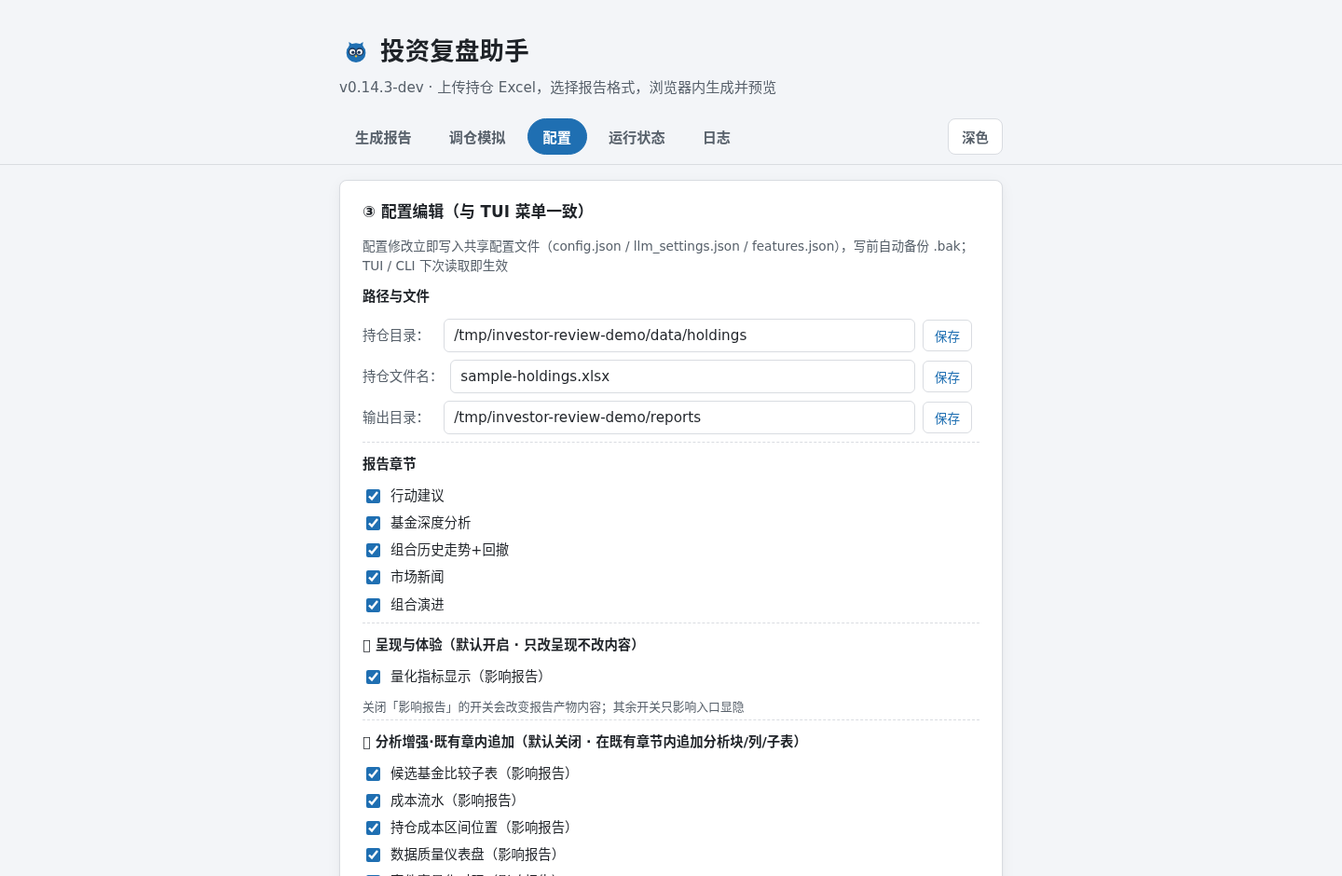
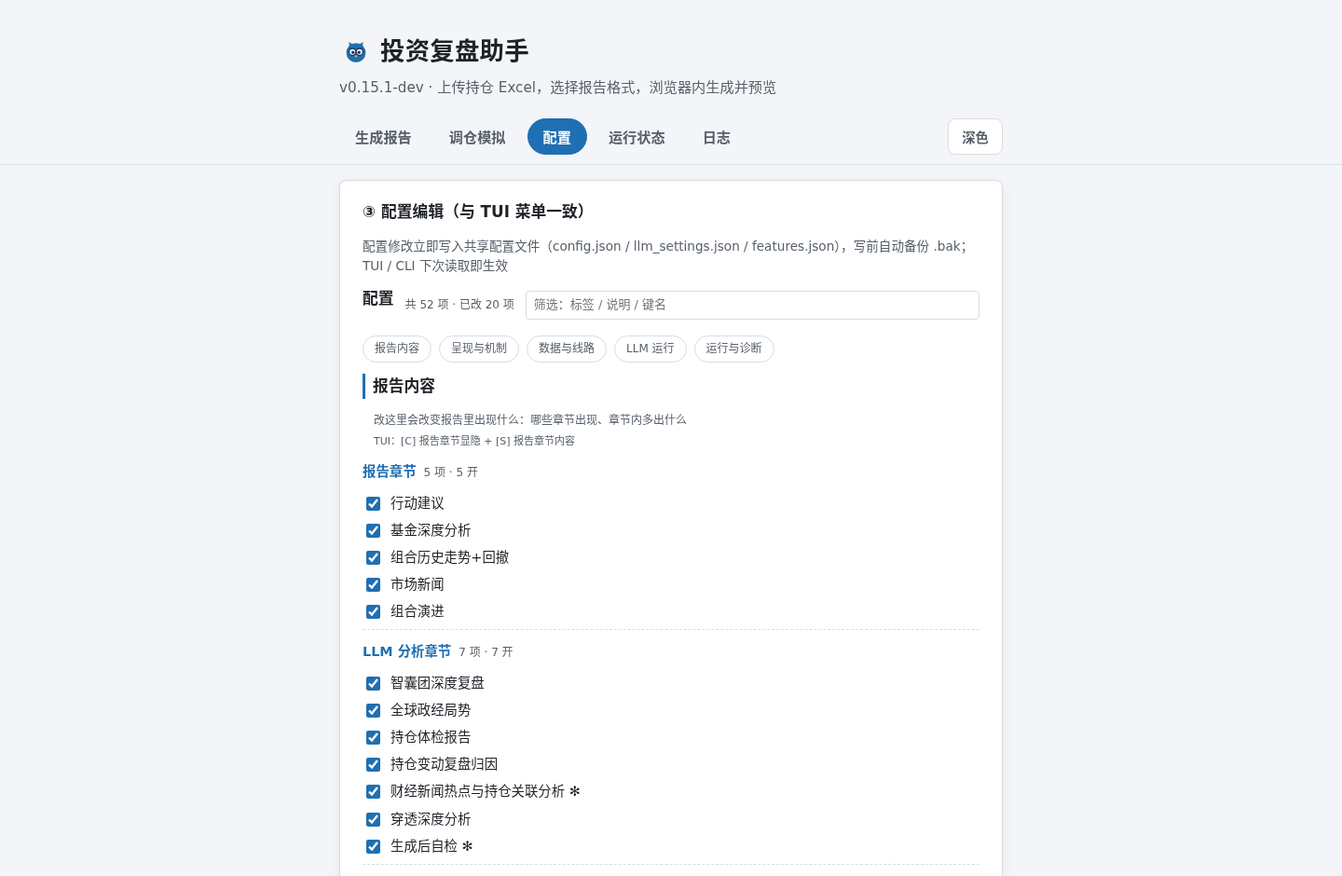
docs(readme+manuals): 演示截图全面重拍（自造持仓/隔离配置）+ 修 rf-843 配置面板块标题 + 图注对齐

Changed region(s): [[0.25, 0.3085, 0.5938, 0.9872], [0.6875, 0.3702, 0.7188, 0.4936]]

diff --git a/src/static/web/main.js b/src/static/web/main.js
@@ -1195,7 +1195,7 @@
       return renderBoolBlock(surface, 'standalone_related', surface.standalone_related);
     },
     anonymization: function (surface) {
-      return renderAnonGroup(surface.anonymization);
+      return renderAnonGroup(surface);
     },
     indices: function (surface) {
       return renderIndicesGroup(surface);
@@ -1204,7 +1204,7 @@
       return renderProvidersGroup(surface);
     },
     tuning: function (surface) {
-      return renderTuningGroup(surface.llm_tuning);
+      return renderTuningGroup(surface);
     },
     logging: function (surface) {
       return renderLoggingBlock(surface);
@@ -1489,14 +1489,15 @@
    * LLM 调优参数（并发/预算/重试）：清单、范围、说明全部由服务端按共享白名单下发。
    * 保存走同一 POST /api/config/edit（校验在 config.edit_ops，三渠道同一强度）。
    */
-  function renderTuningGroup(items) {
+  function renderTuningGroup(surface) {
+    var items = surface.llm_tuning || [];
     var group = document.createElement('div');
     group.className = 'config-group';
     group.setAttribute('role', 'group');
     group.setAttribute('aria-label', 'LLM 调优参数');
     var heading = document.createElement('h3');
     heading.className = 'config-group-title';
-    heading.textContent = 'LLM 调优参数';
+    heading.textContent = (surface.block_titles || {}).tuning || 'LLM 运行参数';
     group.appendChild(heading);
 
     items.forEach(function (item) {
@@ -1548,7 +1549,7 @@
 
   function renderPathsGroup(surface) {
     var paths = surface.paths || {};
-    var group = makeBlockGroup('paths', surface.labels.paths || '目录与文件');
+    var group = makeBlockGroup('paths', (surface.block_titles || {}).paths || '目录与文件');
     Object.keys(paths).forEach(function (key) {
       var row = document.createElement('div');
       row.className = 'config-path-row';
@@ -1617,7 +1618,8 @@
 
   function renderBoolBlock(surface, blockKey, items, opts) {
     opts = opts || {};
-    var group = makeBlockGroup(blockKey, opts.title || surface.labels[blockKey] || blockKey);
+    var titles = surface.block_titles || {};
+    var group = makeBlockGroup(blockKey, opts.title || titles[blockKey] || blockKey);
     var labels = surface.labels;
     var descriptions = surface.descriptions || {};
     var defaults = surface.defaults || {};
@@ -1668,14 +1670,15 @@
     return group;
   }
 
-  function renderAnonGroup(anon) {
+  function renderAnonGroup(surface) {
+    var anon = surface.anonymization;
     var group = document.createElement('div');
     group.className = 'config-group';
     group.setAttribute('role', 'radiogroup');
     group.setAttribute('aria-label', '持仓匿名化');
     var heading = document.createElement('h3');
     heading.className = 'config-group-title';
-    heading.textContent = '持仓匿名化';
+    heading.textContent = (surface.block_titles || {}).anonymization || '持仓匿名化';
     heading.id = 'config-group-anonymization';
     group.id = 'config-block-anonymization';
     group.setAttribute('aria-labelledby', heading.id);
@@ -1709,7 +1712,7 @@
     group.setAttribute('aria-label', '对比指数池');
     var heading = document.createElement('h3');
     heading.className = 'config-group-title';
-    heading.textContent = '对比指数池';
+    heading.textContent = (surface.block_titles || {}).indices || '对比基准指数';
     group.appendChild(heading);
 
     var listWrap = document.createElement('div');
@@ -1764,7 +1767,10 @@
     group.setAttribute('aria-label', 'LLM 多链线路优先级');
     var heading = document.createElement('h3');
     heading.className = 'config-group-title';
-    heading.textContent = 'LLM 多链线路优先级';
+    heading.textContent = (surface.block_titles || {}).providers || '多链线路优先级';
+    heading.id = 'config-group-providers';
+    group.id = 'config-block-providers';
+    group.setAttribute('aria-labelledby', heading.id);
     group.appendChild(heading);
 
     var priorityAware = prov.strategy === 'priority' || prov.strategy === 'fallback_only';
@@ -2083,7 +2089,7 @@
     if (!data.items || !data.items.length) {
       return null;
     }
-    var group = makeBlockGroup('logging', surface.labels.logging || '日志设置');
+    var group = makeBlockGroup('logging', (surface.block_titles || {}).logging || '日志设置');
     var restart = data.restart_keys || [];
     data.items.forEach(function (item) {
       var row = document.createElement('div');
@@ -2146,7 +2152,7 @@
     if (!ref || !ref.pricing_path) {
       return null;
     }
-    var group = makeBlockGroup('reference', surface.labels.reference || '参考信息');
+    var group = makeBlockGroup('reference', (surface.block_titles || {}).reference || '参考信息');
     var row = document.createElement('div');
     row.className = 'ref-row';
     var label = document.createElement('span');

diff --git a/src/test/unit/web/test_config_surface_contract.py b/src/test/unit/web/test_config_surface_contract.py
@@ -77,6 +77,27 @@ class TestBlockRendererContract:
         assert set(surface["standalone_related"]) == {e.key for e in chapters_in_block(BLOCK_ARTIFACT)}
 
 
+class TestBlockTitles:
+    def test_every_block_has_chinese_title(self, surface):
+        """每个块 id 都有随面下发的中文标题（`features.*` 用组自身标题）。
+
+        回归：块标题曾回退到块 id 本身，面板上直接显示 `sections` / `llm` 这类内部标识。
+        """
+        titles = surface["block_titles"]
+        for domain in surface["domains"]:
+            for block in domain["blocks"]:
+                if block.startswith("features."):
+                    assert block.split(".", 1)[1] in {group["key"] for group in surface["features"]["groups"]}, block
+                    continue
+                assert block in titles, f"块 {block} 缺中文标题"
+                assert any("\u4e00" <= ch <= "\u9fff" for ch in titles[block]), (block, titles[block])
+
+    def test_titles_are_not_block_ids(self, surface):
+        """标题不得等于块 id（前端显示的应是中文名，而不是内部标识）。"""
+        for block, title in surface["block_titles"].items():
+            assert title != block, block
+
+
 class TestNoChineseTablesInFrontend:
     def test_no_label_tables(self, main_js):
         """前端不持有中文标签字典（标签/说明/默认值一律服务端下发）。"""

diff --git a/src/python/web/config_edit.py b/src/python/web/config_edit.py
@@ -88,6 +88,21 @@ _DOMAIN_BLOCKS: tuple[tuple[str, tuple[str, ...]], ...] = (
     ("ops_diagnostics", ("logging", "reference")),
 )
 
+#: 块 id → 中文块标题（前端只用标题渲染，不持有任何中文表；`features.<组键>` 用组自身标题）
+_BLOCK_TITLES: dict[str, str] = {
+    "paths": "目录与文件",
+    "sections": "报告章节",
+    "llm": "LLM 分析章节",
+    "standalone_chapters": "默认关闭的整章",
+    "standalone_related": "关联产物",
+    "anonymization": "持仓匿名化",
+    "indices": "对比基准指数",
+    "providers": "多链线路优先级",
+    "tuning": "LLM 运行参数",
+    "logging": "日志设置",
+    "reference": "参考信息",
+}
+
 #: 六组「章内内容」开关所在的面板（`[S]`）；独立整章/关联产物另立块
 _CONTENT_PANEL = "[S]"
 
@@ -338,6 +353,7 @@ def get_config_edit_surface() -> dict:
     return {
         "domains": _block_domains(),
         **_panel_metadata(),
+        "block_titles": dict(_BLOCK_TITLES),
         "paths": paths,
         "sections": sections,
         "standalone_chapters": standalone_chapters,

diff --git a/docs/managements/test-coverage.md b/docs/managements/test-coverage.md
@@ -12,16 +12,16 @@
 <!-- mode-count-table:start -->
 | `--mode` 值 | 覆盖项数 | 典型耗时 |
 |:------------|:--------:|:--------:|
-| `unit` | **11340** | ~45s |
-| `standard` | **10106** | ~28s |
+| `unit` | **11342** | ~45s |
+| `standard` | **10108** | ~28s |
 | `scenario` | **291** | ~6s |
 | `regression` | **291** | ~11s |
-| `dev-verify` | **7995** | ~41s |
-| `verify` | **11340** | ~29s |
+| `dev-verify` | **7997** | ~41s |
+| `verify` | **11342** | ~29s |
 | `integration` | **342** | ~13s |
 | `edge` | **1166** | ~12s |
 | `data` | **70** | ~5s |
-| `all` | **11682** | ~28s |
+| `all` | **11684** | ~28s |
 | `smoke` | **26** | ~4s |
 | `report` | **2640** | ~12s |
 | `all_no_unit` | **342** | ~11s |
@@ -117,7 +117,7 @@
 | **分析计算** | `analysis/`(liquidity, rebalance, fx_exposure, bond_yield, alignment_correction, drawdown_warning, drawdown_events, factor_exposure, industry_beta, correlation, crisis_annotation, tail_risk, portfolio_evolution, snapshot_diff, holding_change_events, holding_change_metrics, action_advisor, trade_discipline, rebalance_advisor, return_attribution, cost_flow, cost_position, whatif, whatif_backtest, valuation_percentile, market_temperature, metrics, financial_indicator_extract) | `unit/analysis/test_{liquidity,rebalance,bond_yield,fx_exposure,alignment_correction,drawdown_warning,drawdown_events,factor_exposure,industry_beta}*.py` + `test_correlation.py` + `test_correlation_edge.py` + `test_crisis_annotation.py` + `test_tail_risk.py` + `test_tail_risk_edge.py` + `test_portfolio_evolution.py` + `test_snapshot_diff.py` + `test_snapshot_diff_edge.py` + `test_holding_change_events.py`/`test_holding_change_events_edge.py`/`test_holding_change_metrics.py`（持仓变动复盘：事件抽取/边缘/指标与重排识别） + `test_action_advisor.py` + `test_trade_discipline.py` + `test_rebalance_advisor.py` + `test_return_attribution.py` + `test_cost_flow.py`（成本流水：XIRR/成本分档/分红累计） + `test_cost_position.py`/`test_cost_position_edge.py`（持仓成本区间位置：百分位/clamp/中性值/窗口切片 + 退化序列/非有限值边缘） + `test_valuation_percentile.py`/`test_valuation_percentile_edge.py`（价格分位代理：收盘价提取/解析解/三档刻度）+ `test_market_temperature.py`/`test_market_temperature_edge.py`（三因子合成温度计）+ `test_metrics.py`/`test_metrics_edge.py`（量化指标：夏普/卡玛/集中度/胜率/换手/风险贡献/波动率/组合 Beta）+ `test_whatif.py` + `test_whatif_backtest.py` + `test_whatif_backtest_edge.py` + `test_trade_cost_model.py`/`test_trade_cost_model_edge.py`（交易成本模型：FIFO 档位手算/金额分档/批次重放/聚合契约与临界边缘）+ `test_benchmark_index_resolver.py`（基准指数三阶映射）+ `test_financial_indicator_extract.py`/`test_financial_indicator_extract_edge.py`（财务指标全文解析：真实年报夹具逐字段复现/行文变体/单位换算/精度切分/扣非排除/取值窗口边界/异常幅度） | 1,237 |
 | **TUI 交互** | `tui/tui*.py`, `tui/status_line.py`, `tui/handlers*.py`, `tui/tui_keys.py`, `tui/text_layout.py` | `unit/ui/test_{tui_keys,tui_handlers,tui_menu}.py`（含主循环退出通道：`0`/`X` 双退出、未映射键不误退、页脚提示与折行）+ `test_text_layout.py`（显示宽度口径 + 盒线面板等宽不变式 + 折行/截断原语）+ `unit/handlers/test_switch_panel_layout.py`（`[S]` 三档响应式排版：40~200 列不越界不变式、状态着色、窄屏 `k` 展开键名、操作后不整屏重绘）+ `test_handlers_log.py`（日志可视化 + 系统自检）+ `test_tui_edge.py` + `unit/startup/test_startup_wizard.py`（unit_ui 标记） | 374 |
 | **CLI 命令行** | `cli/cli.py`（门面）, `cli/_parser.py`, `cli/_handlers.py`, `cli/__main__.py`, `report/cli_progress.py` | `unit/cli/test_cli*.py`（含 doctor 子命令解析/处理/分派、模块入口退出码传递、报告完成后 LLM 成本与缓存命中率摘要调用、**调用级源指定 `--prefer-source` / `--exclude-source` 参数解析与覆盖作用域接入**/生效日 `--effective-date` argparse 类型钩子（共享层归一化前置校验）） | 170 |
-| **Web 服务** | `web/`(server, app, handlers, config_edit, upload, progress, runs) | `unit/web/test_{upload,upload_edge,progress,runs,handlers,server}.py` + `test_config_edit.py`/`test_config_edit_edge.py`（启动防护 output_dir 写锁/端口占用、上传安全、进度事件缓冲、RunManager 运行管理、Flask 路由全链路、配置编辑：白名单完备/写分派/校验守卫/写前备份/极端输入）+ `test_smoke_web.py`（11 项全链路断言）+ `test_handlers.py` 日志/健康历史/自检端点（/api/logs + /api/health/history + /api/doctor）+ `test_health_credential.py`（健康检查凭据跳过态与就绪摘要）+ `test_handlers.py` 短缓存并发安全（线程锁读写段/TTL/?fresh=1/8 线程并发写）+ `test_whatif_api.py`/`test_whatif_api_edge.py`（调仓 What-if 接口：成功链路/参数校验/错误信封/同源 403/互斥 429/生效日容错）+ `test_cache_api.py`（缓存管理接口：统计只读 dry_run/前缀降序保序/清理计数透传/同源 403）+ `test_web_static_serving.py` 五区页签结构契约（页签↔面板配对/What-if 控件/缓存控件/main.js 接线） | 389 |
+| **Web 服务** | `web/`(server, app, handlers, config_edit, upload, progress, runs) | `unit/web/test_{upload,upload_edge,progress,runs,handlers,server}.py` + `test_config_edit.py`/`test_config_edit_edge.py`（启动防护 output_dir 写锁/端口占用、上传安全、进度事件缓冲、RunManager 运行管理、Flask 路由全链路、配置编辑：白名单完备/写分派/校验守卫/写前备份/极端输入）+ `test_smoke_web.py`（11 项全链路断言）+ `test_handlers.py` 日志/健康历史/自检端点（/api/logs + /api/health/history + /api/doctor）+ `test_health_credential.py`（健康检查凭据跳过态与就绪摘要）+ `test_handlers.py` 短缓存并发安全（线程锁读写段/TTL/?fresh=1/8 线程并发写）+ `test_whatif_api.py`/`test_whatif_api_edge.py`（调仓 What-if 接口：成功链路/参数校验/错误信封/同源 403/互斥 429/生效日容错）+ `test_cache_api.py`（缓存管理接口：统计只读 dry_run/前缀降序保序/清理计数透传/同源 403）+ `test_web_static_serving.py` 五区页签结构契约（页签↔面板配对/What-if 控件/缓存控件/main.js 接线） | 391 |
 | **报告问答** | `qa/`(context, session) | `unit/qa/`：test_report_qa_context（分章提取/表头名映射持仓/摘要与上限截断/生成条件声明）+ test_report_qa_context_edge（路径净化三层防御/锚点缺失/整体上限钉死）+ test_report_qa_session（编排契约/历史折叠/用量独立记账/事实核对降级与警示/会话表并发隔离）+ test_report_qa_session_edge（轮数硬上限/输入软上限/上下文失败不耗轮）+ test_report_qa_ask（开关门 403/参数与路径净化 400/错误码→状态码映射/信封契约）+ test_report_qa_partial（报告区块 partial：Data States/信封消费/token 样式纪律/主模板 guard/开关隔离渲染，文件在 unit/report、按 unit_qa 计入本域） | 88 |
 | **端到端业务场景** | 多模块组合（菜单 E/B/L → 读取 → 计算 → 报告 → LLM） | `scenario/`(basic/datetime/llm/perf/resilience/security 六子组，含 `scenario_extreme` 单列) + `integration/test_cli_integration.py` | 291 |
 
@@ -149,7 +149,7 @@
 
 | 标记 | 覆盖模块 | 覆盖项数 |
 |:-------|:---------|:--------:|
-| `unit`（父标记） | 全部 unit 子标记实测（collect 快照） | 11,340 |
+| `unit`（父标记） | 全部 unit 子标记实测（collect 快照） | 11,342 |
 | ├─ `unit_providers` | 数据源 Provider（腾讯/东方财富/天天基金/巨潮资讯等，含 push2 估值字段 PE/PB 提取 + 行业数据 REST 接口、push2his 指数 K 线映射与解析、非有限数值归一防线 safe_num 拦截、财报备源公告列表/文种归类/报告期推导/PDF 解析接缝、传输级失败连接级重试与重试耗尽上抛契约、挂起型不重试判据、provider 失败原因载体的消费即清与线程隔离；cassette 回放的季度窗口锚定录制时点故不随日期时移变红；F10 费用页费率表解析与载荷准入） | 555 |
 | ├─ `unit_fetcher` | 数据获取调度（价格/指数/基金/行业/API 异常/熔断预检/冷却恢复/链路失败原因采集 FailureDiagnostics/数据源适配契约三段式与行情域三源等价性/估值字段网关（Provider Chain 路由 + push2 会话复用与按代码去重）/财务指标链路（主源→解析支路降级）+ 持仓基本面章（财务指标/财报摘要）装配与合并页签/管线契约台账/财报域备源（适配器登记/命名空间隔离/主源可用时备源零调用、传输级失败在编排层的降级护栏（索引转备源/章节清单回退偏好名）/同类排名缓存语义版本准入（rank_schema）/过期缓存降级回写统一助手（盖 `_payload_ver` 语义版本戳 + 来源标记 + 准入判据 payload_version_current，链外手写降级路径经统一出口）/HHI 集中度优化收敛 metrics_risk.hhi 唯一原语（幂等归一/退化语义一致）/申赎费率取数编排（F10→akshare 备链→过期缓存→配置兜底的四级降级与会话复用）） | 618 |
 | ├─ `unit_llm` | LLM 模块（API 路由/熔断/指纹/骨架/prompts/generators/llm_content 写入/Token 成本跟踪/**合规声明集中注入（幂等叠加/角色追加项/空 prompt 保护/call_llm 单一漏斗接线）/**报告深度档位（档位表结构派生自注册表/非法值回落/只收窄不放大已关模块/新闻下界）/**生成后自检（开关关闭零调用/上游无产出跳过/固定非质量保证尾注/调用异常不外抛/注册纪律不在并行表/指纹内容寻址）**/降级回退/DeepSeek 峰谷定价含时段判定/时段/时区/周末与法定节假日全天闲时规则设置/V4.1-Flash 正式模型名定价与 effort 族判定/Kimi k2.6/k3 定价锁定（单价/缓存命中价/无峰谷加成）/Kimi thinking 支持判定与默认开思考显式禁用安全网/信号预消化（资金流方向标注与排名/信号块/缓存后缀）/结构化决策头提示词契约（开关关闭逐字节不变/契约可解析/指纹换键）/模块指纹唯一事实来源同源校验（含提示词承载段与辩论综合键全文进键）/穿透占比严格读契约字段且缺失告警）/申购限购约束块注入（附录第 4 段组装守卫与缺省逐字节、四模块+辩论 pro/con/synthesis+自检+新闻批量成对、指纹三态与接线前基线、预检/写两侧同源））/429 限速诊断日志（两级并发配置回显与按「是否已到底」给建议、endpoint_key 透传接线（api_base 层 + 多链条目名下传至重试骨架）+ 429 回显 min_interval 现值 + 惰性装载同源取策略））/持仓变动提示词注入与归因（提取同源/四模块+辩论+自检附录携带/指纹条件并入/归因准入、信号窗与失败登记） | 1,326 |
@@ -161,7 +161,7 @@
 | ├─ `unit_cli` | CLI 命令行模式（参数解析/路由/退出码/日志/view-logs 子命令/whatif 子命令/doctor 子命令（--offline/--timeout、config 之前分派、_EXIT_PARTIAL 退出码）/模块入口退出码传递 run_cli/报告完成后 LLM 成本与缓存命中率摘要方法调用/功能开关命令行通道：`--experiment`（只开实验项的简写，注册表驱动解析与本次运行增量启用，含早返回命令）与 `--feature NAME=VALUE`（全域双向、可重复、仅本次运行不写盘、未知名与取值非法即时报错、在 `--experiment` 之后应用故可覆盖其隐式置开）/生效日 argparse 类型钩子（共享层归一化前置校验）） | 170 |
 | ├─ `unit_ui` | TUI 交互（菜单/键盘/进度/错误提示/日志可视化查看日志与健康历史/受开关约束的菜单项门控 `_apply_feature_gates`（含默认配置下 `[T]` 即在菜单中）/文本显示宽度与盒线面板等宽不变式） | 374 |
 | ├─ `unit_scripts` | scripts/ 工程脚本（历史痕迹检查工具自检/豁免/补强模式/回归场景元描述豁免/多行 docstring 提取/任务编号一致性检查/语义命名索引双向校验/3 类暗号匹配自检/机器信息采集与耗时表格渲染/环境耗时对照文档自动更新/失败用例提取 data-jsonblob 回归/编码与 locale 自检（`requirements.txt` BOM 约定 + 复刻旧 pip 解码次序 + PEP 597 严格档豁免）/probe 统一入口（registry 分发/未知 target 退出 2/csi·push2 子模块契约面）/AI 幻觉率采样拆包契约（数值检查 4 元组解包透出 corrections/组合数值委托 _utils 唯一实现）/单文件行数红线守护（阈值边界/豁免登记与回落提示/退出码契约/-v 清单派生）/因子动物园目录评测（目录冻结/三指标阈值恰等边界/判定三态/注入探针离线与边缘 fail-closed）） | 1434 |
-| ├─ `unit_web` | Web 服务（启动防护 output_dir 写锁/端口占用、上传安全、进度事件缓冲、RunManager 运行管理、Flask 路由全链路、日志/健康历史端点（/api/logs + /api/health/history + /api/doctor）、Web 配置编辑（镜像 TUI 可编辑配置全集/白名单/备份/写入分派/功能开关白名单键集恒等于注册表键集、`features` 面（四组取值 + 显示名标签 + 产物影响清单 + 实验项清单）、常规开关经面板关闭后落 `features.json` 生效）、状态区系统信息组装（含持仓/输出/新闻上限/匿名化/隐私摘要/自检卡片可见性（默认配置下即渲染，且不再带实验性标签））、首页标题应用名称+版本、Web 冒烟脚本载体、短缓存并发安全（history/health 线程锁保护读写段/TTL 重算/?fresh=1 绕过/8 线程并发写）+ 调仓 What-if 接口（test_whatif_api*.py：文件来源/生效日归一/错误信封/互斥 429）+ 缓存管理接口（test_cache_api.py：统计只读/前缀保序/清理同源守卫）+ 五区页签结构契约（test_web_static_serving.py::TestTabWorkbenchStructure）） | 389 |
+| ├─ `unit_web` | Web 服务（启动防护 output_dir 写锁/端口占用、上传安全、进度事件缓冲、RunManager 运行管理、Flask 路由全链路、日志/健康历史端点（/api/logs + /api/health/history + /api/doctor）、Web 配置编辑（镜像 TUI 可编辑配置全集/白名单/备份/写入分派/功能开关白名单键集恒等于注册表键集、`features` 面（四组取值 + 显示名标签 + 产物影响清单 + 实验项清单）、常规开关经面板关闭后落 `features.json` 生效）、状态区系统信息组装（含持仓/输出/新闻上限/匿名化/隐私摘要/自检卡片可见性（默认配置下即渲染，且不再带实验性标签））、首页标题应用名称+版本、Web 冒烟脚本载体、短缓存并发安全（history/health 线程锁保护读写段/TTL 重算/?fresh=1 绕过/8 线程并发写）+ 调仓 What-if 接口（test_whatif_api*.py：文件来源/生效日归一/错误信封/互斥 429）+ 缓存管理接口（test_cache_api.py：统计只读/前缀保序/清理同源守卫）+ 五区页签结构契约（test_web_static_serving.py::TestTabWorkbenchStructure）） | 391 |
 | └─ `unit_qa` | 报告对话式追问（`src/python/qa/`：报告上下文提取/会话服务/轮数与输入上限/用量独立记账 + Web 路由门与报告页追问接线） | 88 |
 ## 跨类标记
 

diff --git a/docs/managements/folders.md b/docs/managements/folders.md
@@ -9,17 +9,17 @@
 >
 > | 类别 | 开发语言 | 文件数 | 代码行数 | 说明 |
 > |---|---|---|---|---|
-| 主程序代码 | Python | 396 | 104,362 | `src/` 下所有 `.py`（不含测试：`src/__init__.py` 顶层包标记 + `src/python/` 下 15 个 `__init__.py`，含 `web/` 服务层；近期新增 `providers/tiantian_purchase.py` 天天基金申购状态总表 provider + `fetcher/fund_purchase.py` 申购状态取数编排（双链路/准入/会话复用） + `core/jsonl_store.py` JSONL 原子原语 + `core/signal_ledger.py` 确定性信号账本 + `report/signal_record.py` 信号登记适配器 + `core/num_utils.py` 数值归一原语 + `core/doctor.py` 系统自检 + `core/cassette.py` 请求回放引擎 + `core/datasource_credential.py` 数据源凭据声明 + `fetcher/source_adapter.py` 适配契约 + `fetcher/quote_adapters.py` 行情域适配器 + `llm/module_fingerprint.py` 模块指纹唯一事实来源 + `report/_experimental_seams.py` 实验挂载点 + `report/holdings_freshness.py` 持仓报告期时效判定 + `report/experimental_notice.py` 实验功能清单语句单源 + `core/trading_calendar.py` 交易日历原语（时间距离一律以交易日计） + `providers/datasink.py` 全文本财报 provider（密钥/限速/配额） + `providers/hithink.py` 同花顺金融数据服务 provider（A 股行情/财务/基金/情绪面；凭据/qps 限速/信封错误码） + `fetcher/financial_report.py` 财报取数编排 + `fetcher/report_adapters.py` 财报域适配器 + `report/financial_report_digest.py` 财报摘要章节装配 + `providers/akshare_financial.py` 结构化财务指标主源 + `fetcher/financial_indicator_adapters.py` 财务指标域适配器 + `core/code_utils.py::to_fmp_symbol` 共享符号映射 + `providers/_utils.py::run_with_timeout` 共享取数超时原语 + `analysis/financial_indicator_extract.py` 财务指标全文解析（压平正文锚点提取，备用支路） + `fetcher/financial_indicator.py` 财务指标多期取数编排 + `analysis/financial_indicator.py` 财务指标派生（质量档/趋势/当前 PE·PB） + `report/financial_indicator.py` 财务指标章装配 + `report/holdings_detail_sheet.py` 持仓明细与分类 Excel 页签 + `report/position_structure_sheet.py` 持仓结构与集中度 Excel 页签 + `report/fundamental_snapshot_sheet.py` 持仓基本面 Excel 页签（三者均为章节合并写入器） + `llm/compliance.py` 合规声明集中注入（幂等叠加，单一漏斗覆盖全模块）） |
+| 主程序代码 | Python | 396 | 104,378 | `src/` 下所有 `.py`（不含测试：`src/__init__.py` 顶层包标记 + `src/python/` 下 15 个 `__init__.py`，含 `web/` 服务层；近期新增 `providers/tiantian_purchase.py` 天天基金申购状态总表 provider + `fetcher/fund_purchase.py` 申购状态取数编排（双链路/准入/会话复用） + `core/jsonl_store.py` JSONL 原子原语 + `core/signal_ledger.py` 确定性信号账本 + `report/signal_record.py` 信号登记适配器 + `core/num_utils.py` 数值归一原语 + `core/doctor.py` 系统自检 + `core/cassette.py` 请求回放引擎 + `core/datasource_credential.py` 数据源凭据声明 + `fetcher/source_adapter.py` 适配契约 + `fetcher/quote_adapters.py` 行情域适配器 + `llm/module_fingerprint.py` 模块指纹唯一事实来源 + `report/_experimental_seams.py` 实验挂载点 + `report/holdings_freshness.py` 持仓报告期时效判定 + `report/experimental_notice.py` 实验功能清单语句单源 + `core/trading_calendar.py` 交易日历原语（时间距离一律以交易日计） + `providers/datasink.py` 全文本财报 provider（密钥/限速/配额） + `providers/hithink.py` 同花顺金融数据服务 provider（A 股行情/财务/基金/情绪面；凭据/qps 限速/信封错误码） + `fetcher/financial_report.py` 财报取数编排 + `fetcher/report_adapters.py` 财报域适配器 + `report/financial_report_digest.py` 财报摘要章节装配 + `providers/akshare_financial.py` 结构化财务指标主源 + `fetcher/financial_indicator_adapters.py` 财务指标域适配器 + `core/code_utils.py::to_fmp_symbol` 共享符号映射 + `providers/_utils.py::run_with_timeout` 共享取数超时原语 + `analysis/financial_indicator_extract.py` 财务指标全文解析（压平正文锚点提取，备用支路） + `fetcher/financial_indicator.py` 财务指标多期取数编排 + `analysis/financial_indicator.py` 财务指标派生（质量档/趋势/当前 PE·PB） + `report/financial_indicator.py` 财务指标章装配 + `report/holdings_detail_sheet.py` 持仓明细与分类 Excel 页签 + `report/position_structure_sheet.py` 持仓结构与集中度 Excel 页签 + `report/fundamental_snapshot_sheet.py` 持仓基本面 Excel 页签（三者均为章节合并写入器） + `llm/compliance.py` 合规声明集中注入（幂等叠加，单一漏斗覆盖全模块）） |
 | HTML 报告模板 | HTML | 23 | 5,193 | `src/static/tmpl/report_template.html` + `whatif_template.html`（调仓 What-if 独立 HTML 页）+ `partials/`（章节级/区块级 partial，主模板按 TOC 六组经 Jinja include 拆入，清单见目录树 `partials/` 节点） |
 | 架构图示 | SVG | 4 | 396 | `src/static/` README 架构图（architecture 三渠道→引擎→双报告、llm-chain Provider 链式分发、capabilities 九大功能域总览、owl-mascot 吉祥物猫头鹰「守望」）+ 截图 7 张 PNG（报告实景 `report-overview`/`report-toc`/`report-charts` + 界面实景 `tui-menu`/`web-workbench`/`web-config`/`cli-report`，不计入本行） |
 | 辅助脚本 | Python | 116 | 23,401 | `scripts/`（启动脚本 + CLI 命令行包装、测试驱动、工具检查、任务编号检查、性能测试、LLM 幻觉率评测与因子目录评测、测试覆盖计数、代码/文档历史痕迹与结构性冗余检查、视觉资产（社交预览图/架构图体检）、语义命名索引校验、Claude Code hook 安装/校验、Web 冒烟脚本、push2 连通性诊断、SVG 架构图检查） |
-| 源代码合计 | — | 539 | 133,352 | 主程序 + 模板 + 脚本 + SVG |
-| 测试代码 | Python | 624 | 171,862 | `src/test/` 所有 `.py` 文件（含近期 ruff format 全仓重排） |
-| 测试用例 | — | — | 11,682 个 | `pytest --collect-only` 统计（`scripts/test-collect-coverage.py` 实时收集快照，不含 opt-in live 套件） |
+| 源代码合计 | — | 539 | 133,368 | 主程序 + 模板 + 脚本 + SVG |
+| 测试代码 | Python | 624 | 171,883 | `src/test/` 所有 `.py` 文件（含近期 ruff format 全仓重排） |
+| 测试用例 | — | — | 11,684 个 | `pytest --collect-only` 统计（`scripts/test-collect-coverage.py` 实时收集快照，不含 opt-in live 套件） |
 | 用户文档 | Markdown | 13 | 6,295 | 含 README.md（211 行）；行数为 README + manuals 之和 |
 | ├ manuals/ | 用户手册分册 | 12 | 6,077 | 配置/faq/快速上手/TUI/CLI/Web 三种模式指南等 |
-| 项目文档 | Markdown | 191 | 67,636 | 含 CLAUDE.md（89 行）；md 口径（CLAUDE.md 1 + managements 12 + plan 6 + archive md 160），py/txt 不计行 |
-| ├ managements/ | 管理文档 | 13 | 13,277 | 变更日志/目录树/测试计划/技术设计/开发者指南等 |
+| 项目文档 | Markdown | 191 | 67,644 | 含 CLAUDE.md（89 行）；md 口径（CLAUDE.md 1 + managements 12 + plan 6 + archive md 160），py/txt 不计行 |
+| ├ managements/ | 管理文档 | 13 | 13,285 | 变更日志/目录树/测试计划/技术设计/开发者指南等 |
 | ├ archive/ | 版本归档 | 168 | 52,406 | 各版本 changelog/plan/review-findings 与设计文档归档（157 md 50,492 行，含 Vibe-Trading/gs-quant/TradingAgents 借鉴批候选研究、基金申购限购三份设计与 LLM 成本调节/自检/源指定设计） |
 | ├ plan/ | 中间设计文件 | 9 | ~1,861 | 在办设计文档（文档扁平存放、附属原型就近建子目录，完成后迁入对应版本的归档子目录）：两份 Jev 新闻关联判定文档（对照评测方案 + 类型化判定通道接入设计）+ 决策跨期反思闭环设计 + Web 浏览器验证方法 + 配置面板分类与描述设计 + LLM 配置纵切设计 + 日志配置独立成文件设计（共用同目录 `config-panel-mockup/` 设计图样与复跑脚本） |
 | └ tmp/ | 临时文件 | — | — | 调试产物、迁移暂存（git 忽略，不计入统计） |

diff --git a/README.md b/README.md
@@ -51,17 +51,17 @@
 
 ## 📸 实际报告效果
 
-由**全新虚构样例持仓**（两账户 · 10 只多资产混合：个股 / ETF / 场外基金 / 债券基金 / 货币 ETF，纯编造份额成本，本机真实行情）生成的 HTML 报告实景，全量报告（全部功能开关与 LLM 模块开启，含实验项）：
+由**全新虚构样例持仓**（两账户 · 6 只公开品种：2 只宽基 ETF + 2 只个股 + 2 只场外基金；份额与成本均为自造整数，不含任何真实账户信息；行情为公开市场数据）生成的 HTML 报告实景：
 
 ![报告首屏：品牌标记、完整目录导航与章节入口](src/static/report-overview.png)
 
-![盈亏汇总与市场指数](src/static/report-toc.png)
+![盈亏汇总：总市值 / 总成本 / 总盈亏 / 收益率](src/static/report-toc.png)
 
 ![交互图表：穿透行业分布与 TOP10 持仓资产](src/static/report-charts.png)
 
 ## 🖥 界面实景
 
-**TUI 交互模式**——全键盘主菜单（四个任务分组共 14 项含退出，方向键 + 字母直达，`/` 关键词筛选，页头常驻状态行含 LLM 当前链首线路，页脚常驻键位提示；`0` 或 `X` 退出；窄屏/手机 SSH 自适应折行。「配置」组按高频优先排列：报告章节 → 功能开关 → LLM 多链 → 对比指数 → 匿名化 → 目录信息 → 刷新配置）：
+**TUI 交互模式**——全键盘主菜单（四个任务分组共 14 项含退出，方向键 + 字母直达，`/` 关键词筛选，页头常驻状态行（上次报告 / 缓存过期 / 新鲜度 / 备用源 / LLM 状态），页脚常驻键位提示；`0` 或 `X` 退出；窄屏/手机 SSH 自适应折行。「配置」组按高频优先排列：报告章节 → 功能开关 → LLM 多链 → 对比指数 → 匿名化 → 目录信息 → 刷新配置）：
 
 ![TUI 主菜单](src/static/tui-menu.png)
 

diff --git a/docs/managements/review-findings.md b/docs/managements/review-findings.md
@@ -1,6 +1,6 @@
 # 投资复盘助手 - 自我审查问题记录
 > 文档版本：0.15.1-dev
-> **编号源**：`rf-next = 843`（新增问题取此编号，完成后更新为 +1；已用最大 rf-842，递增保证唯一，归档不回收。若与历史归档冲突，运行 `scripts/check-task-numbering.py` 校验）
+> **编号源**：`rf-next = 844`（新增问题取此编号，完成后更新为 +1；已用最大 rf-843，递增保证唯一，归档不回收。若与历史归档冲突，运行 `scripts/check-task-numbering.py` 校验）
 
 ---
 
@@ -30,6 +30,12 @@
 **当前无登记项**——三域均在登记线以下，新增文件触线时按上述口径登记。
 
 ## 已解决问题
+
+### 开发期已修复（0.15.1-dev）
+
+| # | 问题 | 修复 |
+|---|------|------|
+| **rf-843** | Web 配置面板的块标题回退成内部块 id：`renderBoolBlock` 用 `labels[blockKey]` 取标题，而 labels 只登记可编辑键；`sections` / `llm` 等块在面板上直接显示英文 id（中文块标题只有 `features.*` 组与少数写死项）。同批发现 `renderTuningGroup` 签名与块标题取源不一致（引用未定义 `surface`）导致整面板渲染失败 | 块标题改为**服务端随面下发**（`block_titles`，单一来源），前端一律取服务端下发的标题（不回退到 id、不写死中文）；`renderTuningGroup` / `renderAnonGroup` 改为接收 `surface`；契约测试补「每块都有中文标题且标题≠块 id」 |
 
 ### 归档档案
 - [`archived_review-findings.0.15.x.md`](../archive/v0.15.x/archived_review-findings.0.15.x.md) — v0.15.x（2026-10-24 ~ 2026-10-24）

diff --git a/docs/managements/changelog.md b/docs/managements/changelog.md
@@ -9,6 +9,8 @@
 
 ## [0.15.1-dev] - 开发中（未发布）
 
+- **`rf-843` Web 配置面板块标题显示内部 id + 调优块渲染报错**：块标题曾用 `labels[blockKey]` 取，而 `labels` 只登记可编辑键，`sections` / `llm` / `standalone_*` 等块直接显示英文 id；重拍截图时又发现 `renderTuningGroup` 与块标题取源不一致（引用未定义 `surface`），整个配置面板渲染失败。修复：新增 `block_titles` 随面下发（单一来源，11 个块 id 全覆盖），前端一律取服务端下发的标题（不回退到块 id、不写死中文）；`renderAnonGroup` / `renderTuningGroup` 改为接收 `surface`；契约测试补「每块都有中文标题且标题≠块 id」两例。
+
 （本次发布内容见下方归档索引）
 
 ## 归档

diff --git a/docs/manuals/reports-instruction.md b/docs/manuals/reports-instruction.md
@@ -47,11 +47,11 @@
 
 ![HTML 报告首屏：左侧可折叠目录 + 章节入口](../../src/static/report-overview.png)
 
-*图：真实界面截图（窄屏/手机端版式会自适应变化）。*
+*图：真实界面截图（自造样例持仓；窄屏/手机端版式会自适应变化）。*
 
-![交互图表：资产构成、穿透行业分布、组合走势](../../src/static/report-charts.png)
+![交互图表：穿透行业分布与 TOP10 持仓资产（含导出 PNG / CSV）](../../src/static/report-charts.png)
 
-*图：真实界面截图（窄屏/手机端版式会自适应变化）。*
+*图：真实界面截图（自造样例持仓；窄屏/手机端版式会自适应变化）。*
 
 ## 目录
 

diff --git a/docs/manuals/how-to-use-tui-menu.md b/docs/manuals/how-to-use-tui-menu.md
@@ -5,7 +5,7 @@
 
 ![TUI 主菜单（四组任务编排，缺省选中 [L] 生成完整报告）](../../src/static/tui-menu.png)
 
-*图：真实界面截图（窄屏/手机端版式会自适应变化）。*
+*图：真实界面截图（自造样例持仓 + 隔离配置；窄屏/手机端版式会自适应变化）。*
 
 ## 目录
 
